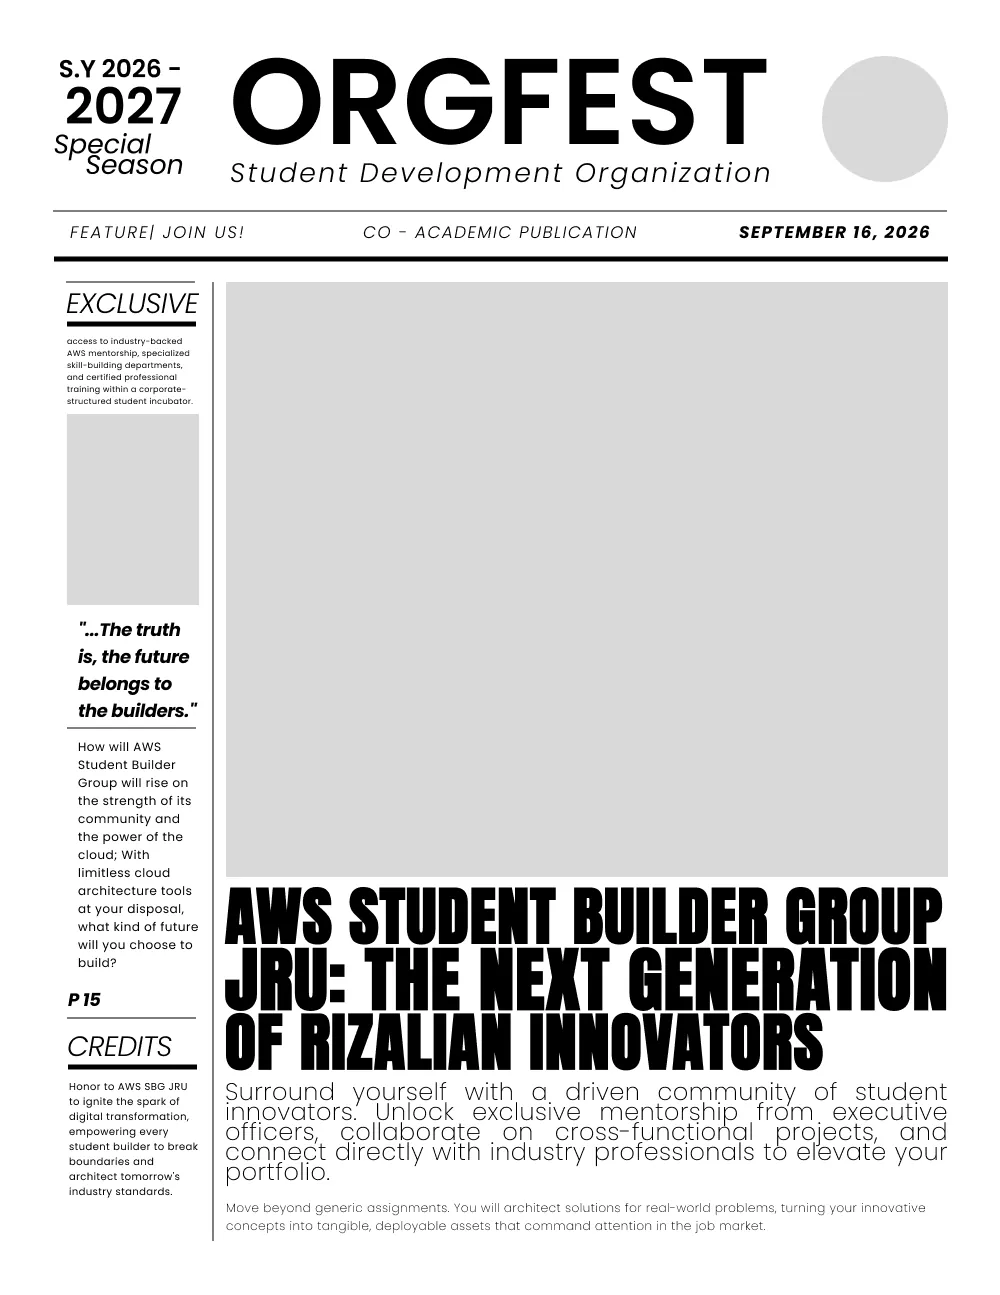
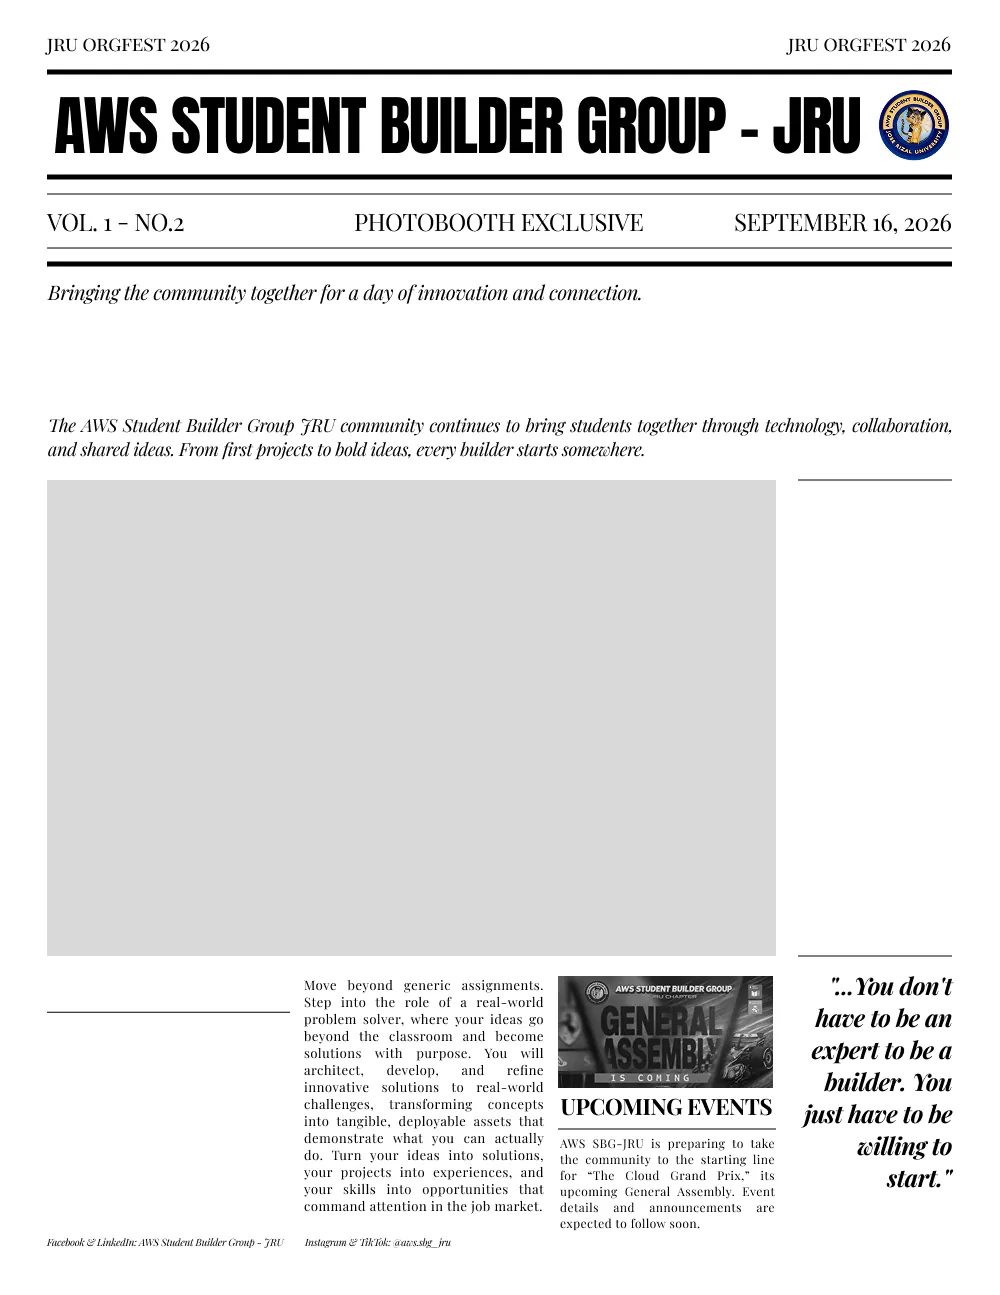
template2: wire real Figma 114:157 design as alt newspaper (asset + slot + preview)
- photo-frame-alt.webp: real export of 114:157 'ux design' (Copy file gy83wuAX...), 1000x1295 webp q80 (was placeholder copy of orgfest)
- SLOTS.alt: measured Rectangle 44 (x47.01 y480 w729 h476) -> l4.7/t37.1/r22.4/b26.2; export SLOTS for reuse
- PreviewPage empty state: per-template frame + dynamic slot box (was hard-coded orgfest)
- No backend change: template/bw plumbing already accepts 'alt'

diff --git a/frontend/src/pages/PreviewPage.jsx b/frontend/src/pages/PreviewPage.jsx
@@ -2,7 +2,7 @@ import { useEffect, useMemo, useState } from 'react'
 import { useLocation, useNavigate } from 'react-router-dom'
 import SurveyModal from '../components/SurveyModal'
 import QrResultModal from '../components/QrResultModal'
-import composeNewspaper from '../utils/composeNewspaper'
+import composeNewspaper, { SLOTS as TEMPLATE_SLOTS, availableTemplates } from '../utils/composeNewspaper'
 import startBg from '../assets/start-bg.webp'
 import awsLogo from '../assets/aws-logo.webp'
 import mascotPreview from '../assets/mascot-preview.webp'
@@ -120,7 +120,7 @@ export default function PreviewPage() {
               ) : (
                 <>
                   <img
-                    src={photoFrame}
+                    src={availableTemplates().find((t) => t.id === template)?.frame || photoFrame}
                     alt=""
                     aria-hidden="true"
                     loading="lazy"
@@ -129,7 +129,15 @@ export default function PreviewPage() {
                   />
                   <div
                     className="absolute flex flex-col items-center justify-center gap-2"
-                    style={{ left: '22.8%', top: '22%', right: '5.3%', bottom: '32.4%' }}
+                    style={(() => {
+                      const s = TEMPLATE_SLOTS[template] || TEMPLATE_SLOTS.orgfest
+                      return {
+                        left: `${s.left * 100}%`,
+                        top: `${s.top * 100}%`,
+                        right: `${(1 - s.right) * 100}%`,
+                        bottom: `${(1 - s.bottom) * 100}%`,
+                      }
+                    })()}
                   >
                     <img src={iconImageBlack} alt="" aria-hidden="true" className="w-10 h-10" />
                     <p className="text-[#1e1e1e]/60 text-sm font-medium">No photo yet</p>

diff --git a/frontend/src/utils/composeNewspaper.js b/frontend/src/utils/composeNewspaper.js
@@ -3,12 +3,10 @@ import photoFrameAlt from '../assets/photo-frame-alt.webp'
 
 // Photo slots per template, as fractions (measured from Figma).
 // orgfest = Frame 53:103 ORGFEST (gray rect 226,282 722x595 on 1000x1295 canvas)
-// alt = Frame 114:157 — MCP limit prevented exact measure; reuse orgfest slot
-// with slight inset so preview difference is visible until exact asset replaces it.
-// When alt asset is updated, re-measure its slot and adjust here.
-const SLOTS = {
+// alt = Frame 114:157 "ux design" (Rectangle 44: x 47.01, y 480, w 729, h 476 on 1000x1295 canvas)
+export const SLOTS = {
   orgfest: { left: 0.228, top: 0.22, right: 0.947, bottom: 0.6757 },
-  alt: { left: 0.22, top: 0.21, right: 0.955, bottom: 0.685 },
+  alt: { left: 0.047, top: 0.3707, right: 0.776, bottom: 0.7382 },
 }
 
 const FRAMES = {
